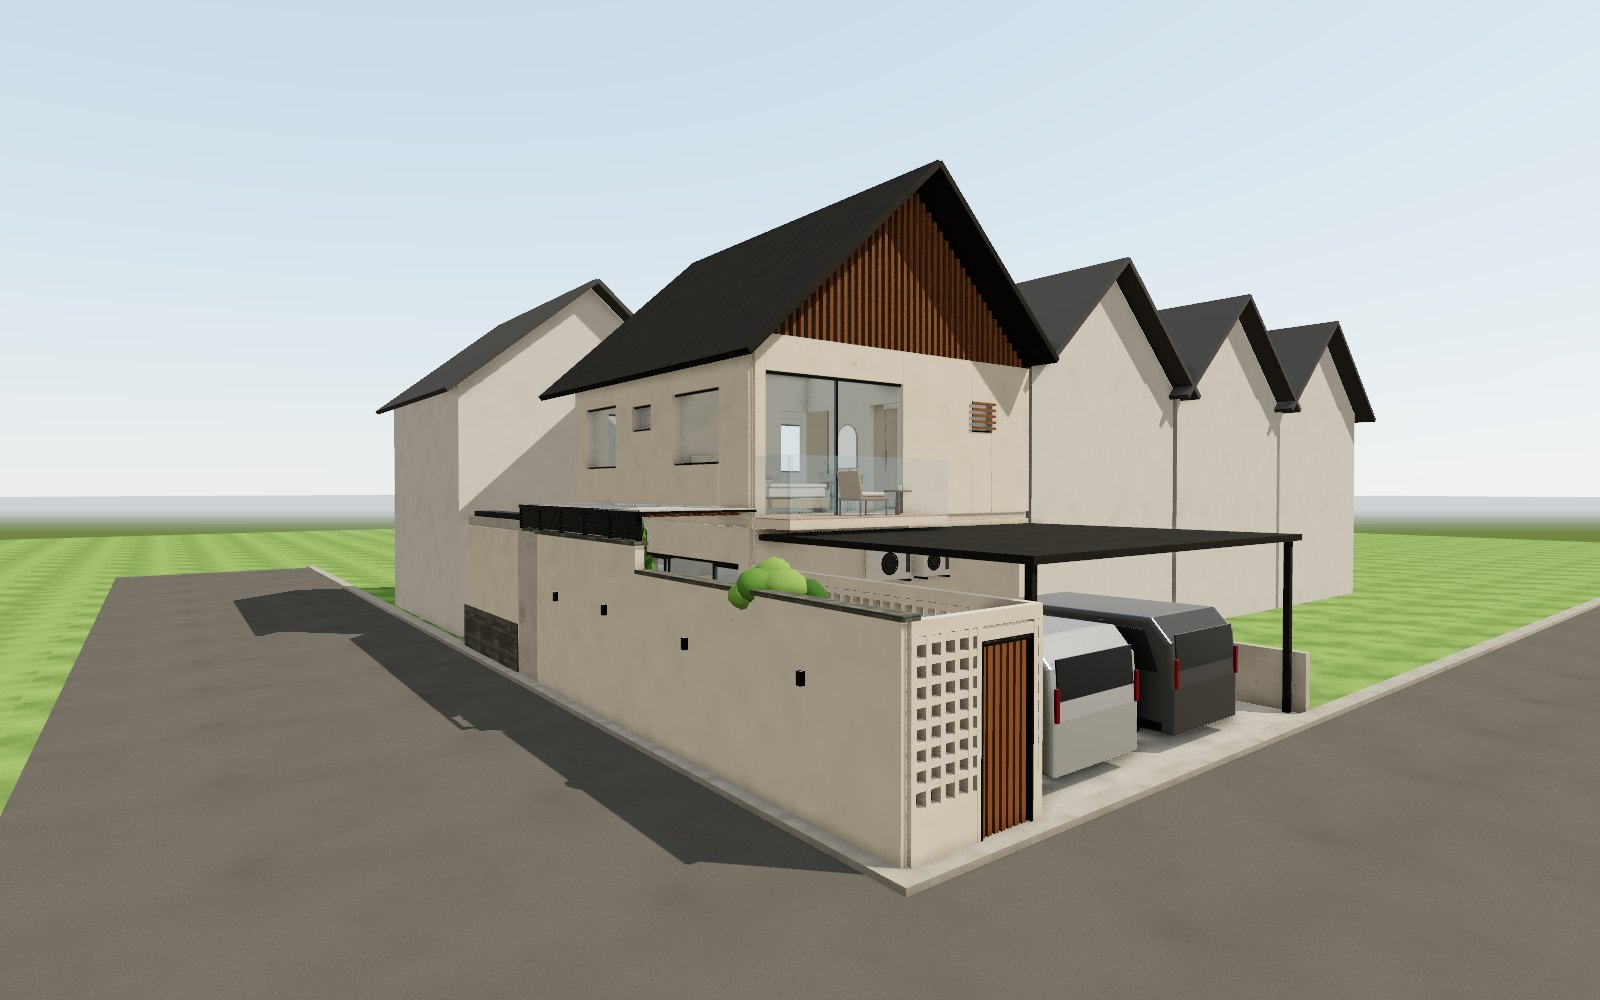
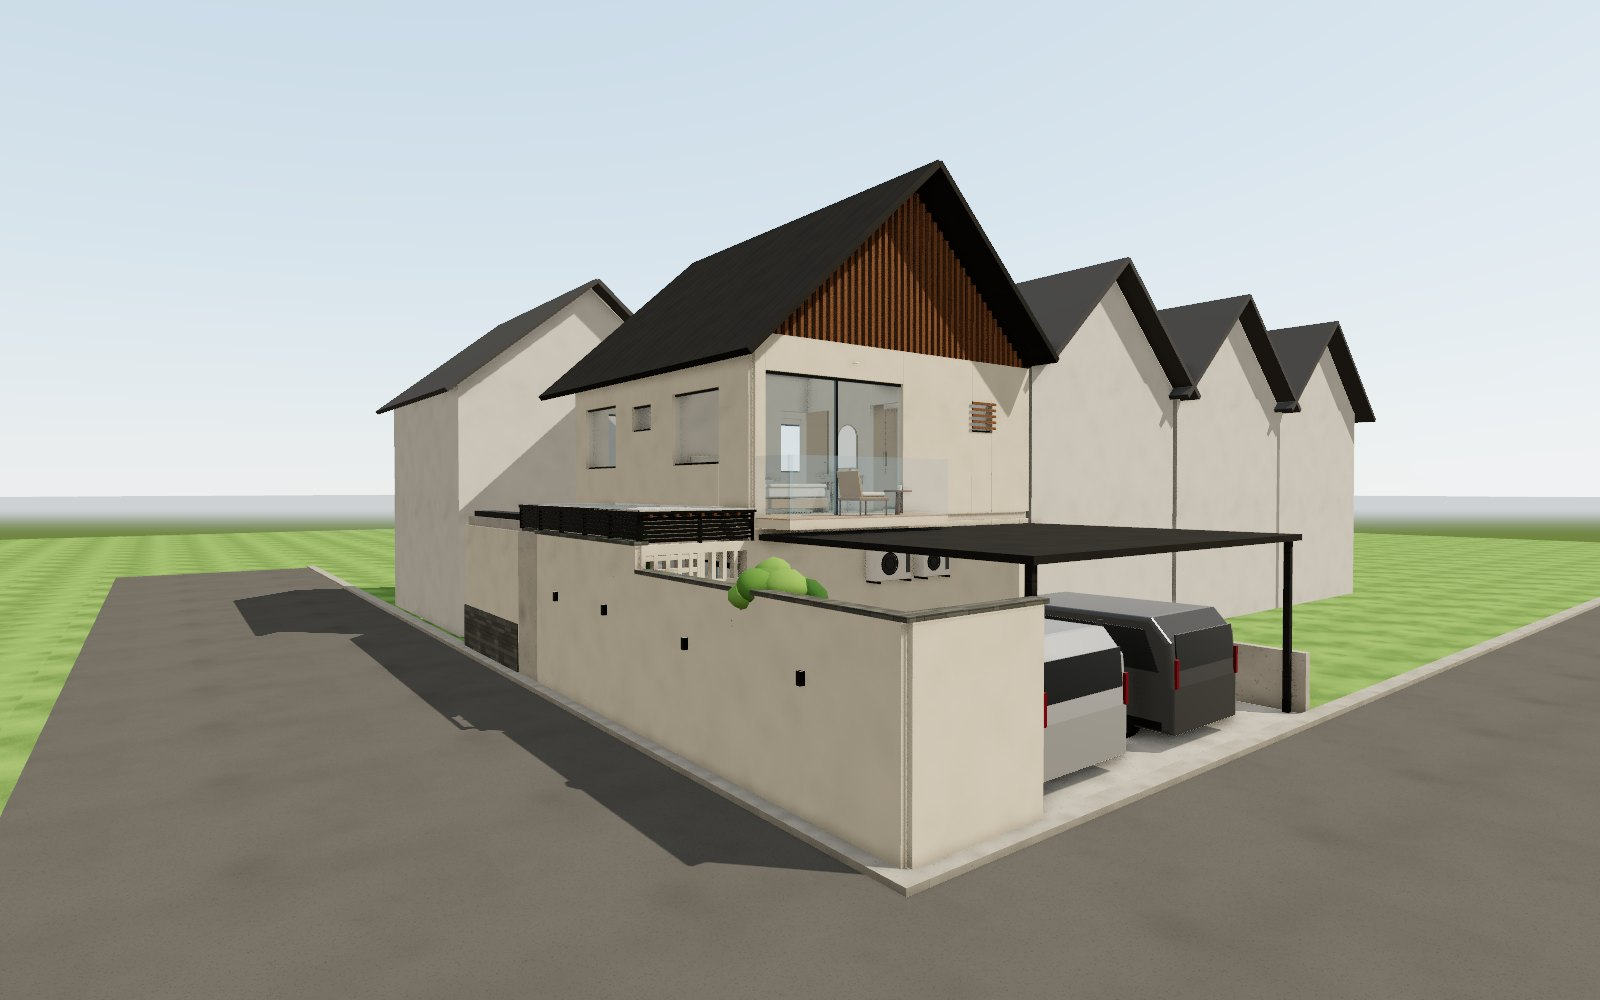
Eksperimen rev 2: teras depan menerus carport, roster taman + pintu P14, taman dalam clean garden
Claude-Session: https://claude.ai/code/session_016KueB573s9a61UmTR5wNSP

Changed region(s): [[0.5312, 0.589, 0.7188, 0.837], [0.375, 0.496, 0.4688, 0.589]]

diff --git a/docs.html b/docs.html
@@ -114,7 +114,7 @@ for (const n of data.notes || []) {
   notePages[notePages.length - 1].push(noteHtml(n)); used += len;
 }
 
-const renders = [['all-corner-malam', 'Tampak tikungan, malam'], ['all-living', 'Ruang keluarga, dapur, meja makan'], ['all-garden', versi === 'eksperimen' ? 'Taman depan dari deck' : 'Taman dan deck dari dalam'],
+const renders = [['all-corner-malam', 'Tampak tikungan, malam'], ['all-living', 'Ruang keluarga, dapur, meja makan'], ['all-garden', versi === 'eksperimen' ? 'Taman dari deck ke pintu P14' : 'Taman dan deck dari dalam'],
   ['lt1-iso', 'Potongan lantai 1'], ['lt2-iso', 'Potongan lantai 2'], ['all-corner', 'Tampak tikungan, siang']]
   .map(([f, c]) => `<figure><img src="${imgDir}/${f}.jpg" alt="${c}"><figcaption>${c}</figcaption></figure>`).join('');
 

diff --git a/README.md b/README.md
@@ -80,7 +80,7 @@ Opening `type` values: `door` (gap; with `hinge` `start`/`end`, `side` ±1 and o
 | URL | Data | What |
 |---|---|---|
 | `./` | `data/house.json` | main design |
-| `./?versi=eksperimen` | `data/house-eksperimen.json` | front garden experiment: garden runs to the front boundary, corner garden removed, L-bench at the front, roster with doors P14 (street) and P15 (carport) |
+| `./?versi=eksperimen` | `data/house-eksperimen.json` | garden + front terrace experiment: corner garden becomes a paved *teras depan* (same floor as the carport, open to it, solid walls on both street sides) with the L-bench and pot tree; the old garden roster stays and gets door P14; inner garden cleared to deck + lawn |
 
 The **Versi desain** switch in the panel flips between them, and `docs.html?versi=eksperimen` draws the documents (plus `docs/img/eksp/` renders and the garden sketch) for the experiment. Roster walls (`kind: "roster"`) accept `open` like other walls; a `gate` opening draws a closed slatted leaf. Furniture type `pot` is a tall round garden pot (put the tree in `plants`).
 
